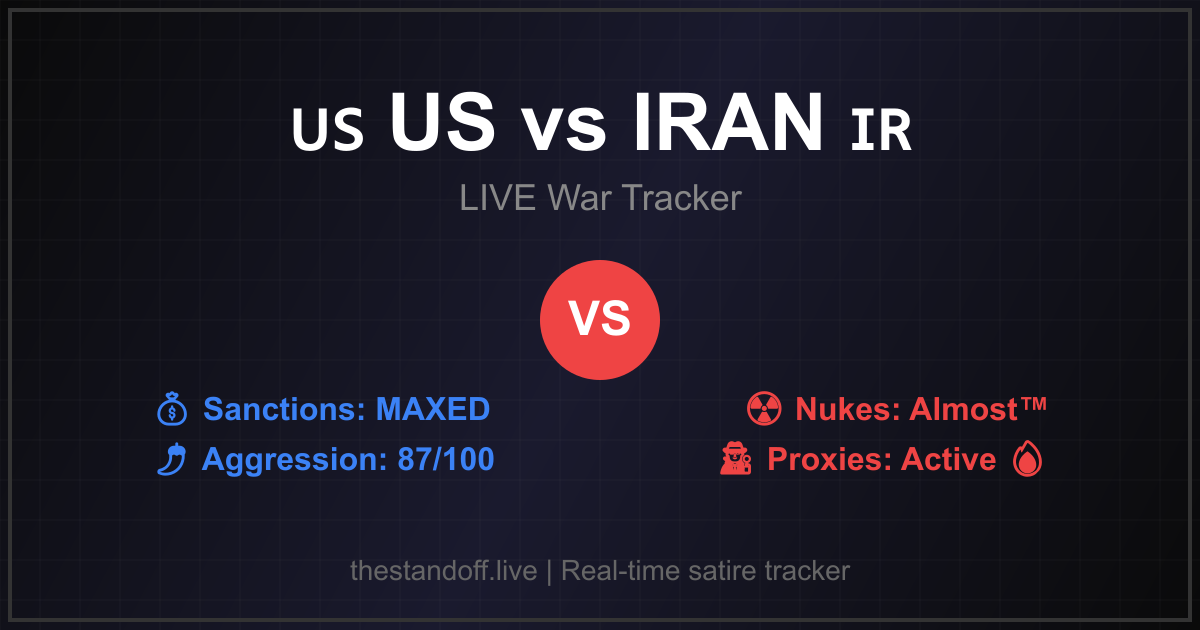
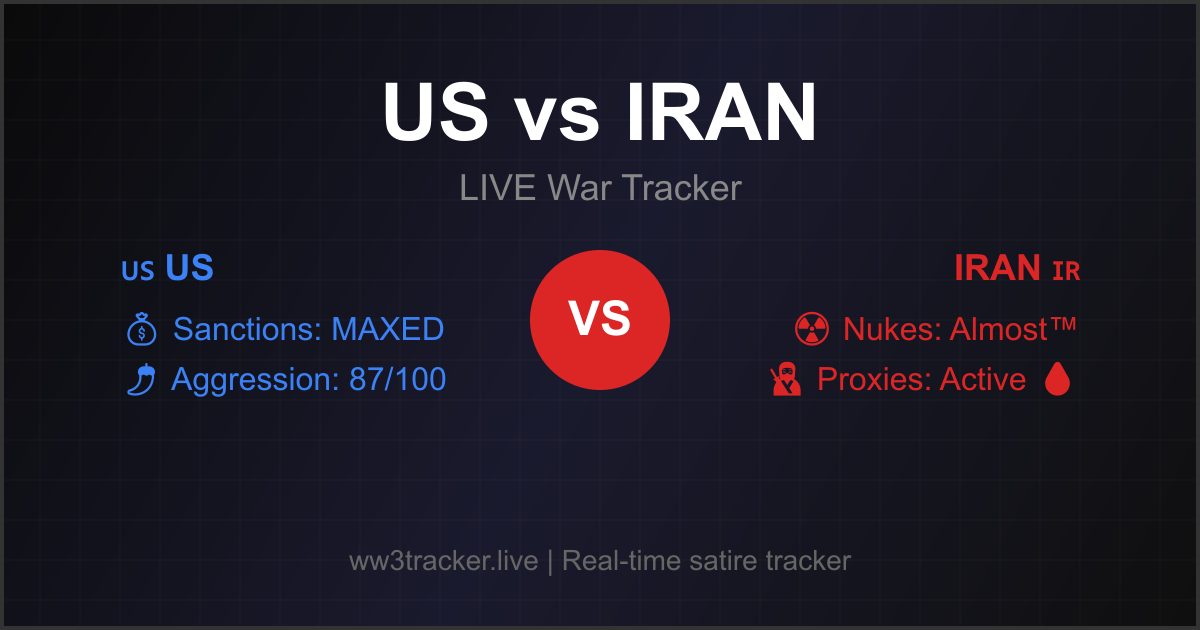
Fix: Replace all thestandoff.live with ww3tracker.live - Fix OG image, share links, Polymarket referrals

diff --git a/src/components/PolymarketWidget.jsx b/src/components/PolymarketWidget.jsx
@@ -11,7 +11,7 @@ const DEFAULT_POLYMARKET_DATA = {
       probability: 18,
       volume: 2847200,
       endDate: '2026-06-30T23:59:59Z',
-      url: 'https://polymarket.com/event/will-the-iranian-regime-fall-by-june-30?r=thestandoff',
+      url: 'https://polymarket.com/event/will-the-iranian-regime-fall-by-june-30?r=ww3tracker',
       isReal: true,
       source: 'polymarket'
     },
@@ -21,7 +21,7 @@ const DEFAULT_POLYMARKET_DATA = {
       probability: 12,
       volume: 5156700,
       endDate: '2026-03-31T23:59:59Z',
-      url: 'https://polymarket.com/event/will-the-us-invade-iran-by-march-31?r=thestandoff',
+      url: 'https://polymarket.com/event/will-the-us-invade-iran-by-march-31?r=ww3tracker',
       isReal: true,
       source: 'polymarket'
     },
@@ -31,7 +31,7 @@ const DEFAULT_POLYMARKET_DATA = {
       probability: 35,
       volume: 2218900,
       endDate: '2026-06-30T23:59:59Z',
-      url: 'https://polymarket.com/event/will-israel-declare-war-on-iran-before-july-989?r=thestandoff',
+      url: 'https://polymarket.com/event/will-israel-declare-war-on-iran-before-july-989?r=ww3tracker',
       isReal: true,
       source: 'polymarket'
     },
@@ -41,7 +41,7 @@ const DEFAULT_POLYMARKET_DATA = {
       probability: 52,
       volume: 2100000,
       endDate: '2026-06-30T23:59:59Z',
-      url: 'https://polymarket.com/event/usisrael-strikes-iran-on?r=thestandoff',
+      url: 'https://polymarket.com/event/usisrael-strikes-iran-on?r=ww3tracker',
       isReal: true,
       source: 'polymarket'
     }
@@ -114,13 +114,13 @@ const MarketCard = ({ market, cloutMode, userPoints, onPredict, hasPredicted }) 
   const noPercent = 100 - yesPercent;
 
   const shareToX = () => {
-    const text = `I just bet ${hasPredicted?.prediction?.toUpperCase() || 'YES'} on "${market.question.substring(0, 50)}..."\nMarkets say ${yesPercent}% — thestandoff.live\n#Polymarket #USvsIran #WW3`;
+    const text = `I just bet ${hasPredicted?.prediction?.toUpperCase() || 'YES'} on "${market.question.substring(0, 50)}..."\nMarkets say ${yesPercent}% — ww3tracker.live\n#Polymarket #USvsIran #WW3`;
     window.open('https://twitter.com/intent/tweet?text=' + encodeURIComponent(text), '_blank');
   };
 
   const copyLink = async () => {
     try {
-      await navigator.clipboard.writeText(`https://thestandoff.live — ${market.question}`);
+      await navigator.clipboard.writeText(`https://ww3tracker.live — ${market.question}`);
       setCopied(true);
       setTimeout(() => setCopied(false), 2000);
     } catch (err) {
@@ -132,7 +132,7 @@ const MarketCard = ({ market, cloutMode, userPoints, onPredict, hasPredicted }) 
     if (market?.url) {
       window.open(market.url, '_blank');
     } else {
-      window.open('https://polymarket.com?r=thestandoff', '_blank');
+      window.open('https://polymarket.com?r=ww3tracker', '_blank');
     }
   };
 

diff --git a/scripts/generate-og-image.js b/scripts/generate-og-image.js
@@ -1,0 +1,94 @@
+import { createCanvas, registerFont } from 'canvas';
+import fs from 'fs';
+import path from 'path';
+import { fileURLToPath } from 'url';
+
+const __dirname = path.dirname(fileURLToPath(import.meta.url));
+
+// Create canvas (1200x630 for OG image)
+const canvas = createCanvas(1200, 630);
+const ctx = canvas.getContext('2d');
+
+// Background gradient
+const gradient = ctx.createLinearGradient(0, 0, 1200, 630);
+gradient.addColorStop(0, '#0a0a0a');
+gradient.addColorStop(0.5, '#1a1a2e');
+gradient.addColorStop(1, '#0f0f0f');
+ctx.fillStyle = gradient;
+ctx.fillRect(0, 0, 1200, 630);
+
+// Add subtle grid pattern
+ctx.strokeStyle = 'rgba(255, 255, 255, 0.03)';
+ctx.lineWidth = 1;
+for (let i = 0; i < 1200; i += 40) {
+  ctx.beginPath();
+  ctx.moveTo(i, 0);
+  ctx.lineTo(i, 630);
+  ctx.stroke();
+}
+for (let i = 0; i < 630; i += 40) {
+  ctx.beginPath();
+  ctx.moveTo(0, i);
+  ctx.lineTo(1200, i);
+  ctx.stroke();
+}
+
+// Title - "US vs IRAN"
+ctx.textAlign = 'center';
+ctx.fillStyle = '#ffffff';
+ctx.font = 'bold 80px Arial';
+ctx.fillText('US vs IRAN', 600, 140);
+
+// Subtitle
+ctx.font = '36px Arial';
+ctx.fillStyle = '#888888';
+ctx.fillText('LIVE War Tracker', 600, 200);
+
+// VS Circle
+ctx.beginPath();
+ctx.arc(600, 320, 70, 0, Math.PI * 2);
+ctx.fillStyle = '#dc2626';
+ctx.fill();
+ctx.fillStyle = '#ffffff';
+ctx.font = 'bold 48px Arial';
+ctx.fillText('VS', 600, 335);
+
+// US Side (Left)
+ctx.textAlign = 'left';
+ctx.fillStyle = '#3b82f6'; // Blue
+ctx.font = 'bold 36px Arial';
+ctx.fillText('🇺🇸 US', 120, 280);
+
+ctx.font = '32px Arial';
+ctx.fillText('💰 Sanctions: MAXED', 120, 340);
+ctx.fillText('🌶 Aggression: 87/100', 120, 390);
+
+// Iran Side (Right)
+ctx.textAlign = 'right';
+ctx.fillStyle = '#dc2626'; // Red
+ctx.font = 'bold 36px Arial';
+ctx.fillText('IRAN 🇮🇷', 1080, 280);
+
+ctx.font = '32px Arial';
+ctx.fillText('☢ Nukes: Almost™', 1080, 340);
+ctx.fillText('🥷 Proxies: Active 🩸', 1080, 390);
+
+// Bottom - URL (THIS IS THE FIXED PART!)
+ctx.textAlign = 'center';
+ctx.fillStyle = '#666666';
+ctx.font = '28px Arial';
+ctx.fillText('ww3tracker.live | Real-time satire tracker', 600, 570);
+
+// Border
+ctx.strokeStyle = '#333333';
+ctx.lineWidth = 4;
+ctx.strokeRect(2, 2, 1196, 626);
+
+// Save
+const buffer = canvas.toBuffer('image/png');
+const outputPath = path.join(__dirname, '..', 'public', 'og-image.png');
+fs.writeFileSync(outputPath, buffer);
+
+console.log('✅ OG Image generated successfully!');
+console.log('📁 Saved to:', outputPath);
+console.log('🔗 Domain updated to: ww3tracker.live');

diff --git a/src/components/MemeCard.jsx b/src/components/MemeCard.jsx
@@ -58,9 +58,9 @@ const ShareButtons = ({ meme, cardRef, isWW3 = false, ww3Data = null }) => {
 
   const getShareText = () => {
     if (meme?.analysis?.memeCaption) {
-      return `${meme.analysis.badge} ${meme.analysis.memeCaption}\n☢ WW3 tracker is LIVE\nthestandoff.live #WW3 #USvsIran #TheStandoff`;
+      return `${meme.analysis.badge} ${meme.analysis.memeCaption}\n☢ WW3 tracker is LIVE\nww3tracker.live #WW3 #USvsIran #TheStandoff`;
     }
-    return `☢ WW3: ${ww3Data?.probability || 50}% likely right now thestandoff.live #WW3 #TheStandoff`;
+    return `☢ WW3: ${ww3Data?.probability || 50}% likely right now ww3tracker.live #WW3 #TheStandoff`;
   };
 
   const shareToX = () => {
@@ -69,14 +69,14 @@ const ShareButtons = ({ meme, cardRef, isWW3 = false, ww3Data = null }) => {
 
   const shareToReddit = () => {
     const title = meme?.analysis?.memeCaption 
-      ? `${meme.analysis.memeCaption} [thestandoff.live]`
+      ? `${meme.analysis.memeCaption} [ww3tracker.live]`
       : `WW3 Probability: ${ww3Data?.probability || 50}% - Live Tracker`;
-    window.open(`https://reddit.com/submit?url=${encodeURIComponent('https://thestandoff.live')}&title=${encodeURIComponent(title)}`, '_blank');
+    window.open(`https://reddit.com/submit?url=${encodeURIComponent('https://ww3tracker.live')}&title=${encodeURIComponent(title)}`, '_blank');
   };
 
   const copyLink = async () => {
     try {
-      await navigator.clipboard.writeText('https://thestandoff.live');
+      await navigator.clipboard.writeText('https://ww3tracker.live');
       setCopied(true);
       setTimeout(() => setCopied(false), 2000);
     } catch (err) {
@@ -100,7 +100,7 @@ const ShareButtons = ({ meme, cardRef, isWW3 = false, ww3Data = null }) => {
       ctx.font = 'bold 14px Arial';
       ctx.fillStyle = 'rgba(255, 255, 255, 0.6)';
       ctx.textAlign = 'right';
-      ctx.fillText('thestandoff.live', canvas.width - 10, canvas.height - 10);
+      ctx.fillText('ww3tracker.live', canvas.width - 10, canvas.height - 10);
 
       // For WW3 counter, add dramatic overlay
       if (isWW3 && ww3Data) {
@@ -113,7 +113,7 @@ const ShareButtons = ({ meme, cardRef, isWW3 = false, ww3Data = null }) => {
         ctx.fillText('right now', canvas.width / 2, canvas.height / 2 + 30);
         ctx.font = 'bold 14px Arial';
         ctx.fillStyle = 'rgba(255, 255, 255, 0.6)';
-        ctx.fillText('thestandoff.live', canvas.width / 2, canvas.height / 2 + 55);
+        ctx.fillText('ww3tracker.live', canvas.width / 2, canvas.height / 2 + 55);
       }
 
       const link = document.createElement('a');

diff --git a/index.html b/index.html
@@ -16,25 +16,28 @@
     <link rel="apple-touch-icon" href="/apple-touch-icon.svg" />
     <link rel="shortcut icon" href="/favicon.svg" />
     <meta name="viewport" content="width=device-width, initial-scale=1.0" />
+    <meta http-equiv="Cache-Control" content="no-cache, no-store, must-revalidate" />
+    <meta http-equiv="Pragma" content="no-cache" />
+    <meta http-equiv="Expires" content="0" />
     <title>WW3 Tracker - Live Conflict Monitor</title>
     <meta name="description" content="Real-time satire tracker for the US vs Iran conflict. Live stats, betting odds, market data, and breaking news. Who's winning? 💰 Sanctions vs ☢ Nukes" />
     <link rel="canonical" href="https://ww3tracker.live/" />
     
     <!-- Open Graph / Twitter Card Meta Tags -->
     <meta property="og:type" content="website" />
-    <meta property="og:url" content="https://ww3tracker.live?v=2" />
+    <meta property="og:url" content="https://ww3tracker.live?t=20260303" />
     <meta property="og:title" content="WW3 Tracker - Live Conflict Monitor" />
     <meta property="og:description" content="Real-time satire tracker for the US vs Iran conflict. Live stats, betting odds, market data, and breaking news. Who's winning? 💰 Sanctions vs ☢ Nukes" />
-    <meta property="og:image" content="https://ww3tracker.live/og-image.png?v=2" />
+    <meta property="og:image" content="https://ww3tracker.live/og-image.png?t=20260303" />
     <meta property="og:image:width" content="1200" />
     <meta property="og:image:height" content="630" />
     
     <!-- Twitter Card -->
     <meta name="twitter:card" content="summary_large_image" />
-    <meta name="twitter:url" content="https://ww3tracker.live?v=2" />
+    <meta name="twitter:url" content="https://ww3tracker.live?t=20260303" />
     <meta name="twitter:title" content="WW3 Tracker - Live Conflict Monitor" />
     <meta name="twitter:description" content="Real-time satire tracker for the US vs Iran conflict. Live stats, betting odds, market data, and breaking news. Who's winning? 💰 Sanctions vs ☢ Nukes" />
-    <meta name="twitter:image" content="https://ww3tracker.live/og-image.png?v=2" />
+    <meta name="twitter:image" content="https://ww3tracker.live/og-image.png?t=20260303" />
     
     <link rel="preconnect" href="https://fonts.googleapis.com">
     <link rel="preconnect" href="https://fonts.gstatic.com" crossorigin>

diff --git a/server/services/polymarketService.js b/server/services/polymarketService.js
@@ -27,7 +27,7 @@ const HARDCODED_IRAN_MARKETS = [
     probability: 18,
     volume: 2847200,
     endDate: '2026-06-30T23:59:59Z',
-    url: 'https://polymarket.com/event/will-the-iranian-regime-fall-by-june-30?r=thestandoff',
+    url: 'https://polymarket.com/event/will-the-iranian-regime-fall-by-june-30?r=ww3tracker',
     isReal: true,
     source: 'polymarket'
   },
@@ -37,7 +37,7 @@ const HARDCODED_IRAN_MARKETS = [
     probability: 12,
     volume: 5156700,
     endDate: '2026-03-31T23:59:59Z',
-    url: 'https://polymarket.com/event/will-the-us-invade-iran-by-march-31?r=thestandoff',
+    url: 'https://polymarket.com/event/will-the-us-invade-iran-by-march-31?r=ww3tracker',
     isReal: true,
     source: 'polymarket'
   },
@@ -47,7 +47,7 @@ const HARDCODED_IRAN_MARKETS = [
     probability: 35,
     volume: 2218900,
     endDate: '2026-06-30T23:59:59Z',
-    url: 'https://polymarket.com/event/will-israel-declare-war-on-iran-before-july-989?r=thestandoff',
+    url: 'https://polymarket.com/event/will-israel-declare-war-on-iran-before-july-989?r=ww3tracker',
     isReal: true,
     source: 'polymarket'
   },
@@ -57,7 +57,7 @@ const HARDCODED_IRAN_MARKETS = [
     probability: 52,
     volume: 2100000,
     endDate: '2026-06-30T23:59:59Z',
-    url: 'https://polymarket.com/event/usisrael-strikes-iran-on?r=thestandoff',
+    url: 'https://polymarket.com/event/usisrael-strikes-iran-on?r=ww3tracker',
     isReal: true,
     source: 'polymarket'
   },
@@ -67,7 +67,7 @@ const HARDCODED_IRAN_MARKETS = [
     probability: 8,
     volume: 1521000,
     endDate: '2026-03-31T23:59:59Z',
-    url: 'https://polymarket.com/event/trump-announces-military-action-against-iran-durring-sotu?r=thestandoff',
+    url: 'https://polymarket.com/event/trump-announces-military-action-against-iran-durring-sotu?r=ww3tracker',
     isReal: true,
     source: 'polymarket'
   }

diff --git a/src/components/WW3Counter.jsx b/src/components/WW3Counter.jsx
@@ -63,7 +63,7 @@ const WW3Counter = ({ tension = 65 }) => {
     return () => clearInterval(interval);
   }, []);
 
-  const shareText = `☢ WW3 is ${ww3Probability}% likely right now\nBased on live Polymarket + news data 😭\nthestandoff.live #WW3 #TheStandoff`;
+  const shareText = `☢ WW3 is ${ww3Probability}% likely right now\nBased on live Polymarket + news data 😭\nww3tracker.live #WW3 #TheStandoff`;
 
   const shareToX = () => {
     window.open('https://twitter.com/intent/tweet?text=' + encodeURIComponent(shareText), '_blank');
@@ -71,7 +71,7 @@ const WW3Counter = ({ tension = 65 }) => {
 
   const copyLink = async () => {
     try {
-      await navigator.clipboard.writeText('https://thestandoff.live');
+      await navigator.clipboard.writeText('https://ww3tracker.live');
       setCopied(true);
       setTimeout(() => setCopied(false), 2000);
     } catch (err) {
@@ -281,7 +281,7 @@ const WW3Counter = ({ tension = 65 }) => {
               {isReal ? ' • Live data' : ' • Estimated'}
             </p>
             <p className="text-[9px] sm:text-[10px] text-gray-600 font-body hidden sm:block">
-              thestandoff.live
+              ww3tracker.live
             </p>
           </div>
         </div>

diff --git a/src/components/SpicyMeter.jsx b/src/components/SpicyMeter.jsx
@@ -71,14 +71,14 @@ const SpicyMeter = ({ tension = 65, usHP = 75, iranHP = 60 }) => {
     const gold = stocks.find(s => s.label === 'SAFE.HAVEN');
     const defense = stocks.find(s => s.label === 'WAR.STOCKS');
     
-    const text = `📉 LIVE WAR MARKET UPDATE:\n🛢 Oil: ${oil?.change || 'N/A'}\n🥇 Gold: ${gold?.change || 'N/A'}\n🚀 Defense stocks: ${defense?.change || 'N/A'}\n💸 Iran Rial: SUFFERING\nMarkets know something 👀\nthestandoff.live #WW3 #USvsIran`;
+    const text = `📉 LIVE WAR MARKET UPDATE:\n🛢 Oil: ${oil?.change || 'N/A'}\n🥇 Gold: ${gold?.change || 'N/A'}\n🚀 Defense stocks: ${defense?.change || 'N/A'}\n💸 Iran Rial: SUFFERING\nMarkets know something 👀\nww3tracker.live #WW3 #USvsIran`;
     
     window.open('https://twitter.com/intent/tweet?text=' + encodeURIComponent(text), '_blank');
   };
 
   const copyLink = async () => {
     try {
-      await navigator.clipboard.writeText('https://thestandoff.live');
+      await navigator.clipboard.writeText('https://ww3tracker.live');
       setCopied(true);
       setTimeout(() => setCopied(false), 2000);
     } catch (err) {

diff --git a/src/components/FighterCard.jsx b/src/components/FighterCard.jsx
@@ -7,7 +7,7 @@ const TRUMP_GIF_URL = 'https://media.giphy.com/media/v1.Y2lkPTc5MGI3NjExaXJvdm5m
 const IRAN_GIF_URL = 'https://media4.giphy.com/media/v1.Y2lkPTc5MGI3NjExZ3Q1eGJhODQyNzdqdGs3NDByb3FzNjNpOWt1cHdjYTg3NmtieGh0MCZlcD12MV9pbnRlcm5hbF9naWZfYnlfaWQmY3Q9Zw/KdxduNi5eiR7f6DI68/giphy.gif';
 
 // Website URL - change this to your actual domain when deployed
-const SITE_URL = 'https://thestandoff.live';
+const SITE_URL = 'https://ww3tracker.live';
 
 const FighterCard = ({ 
   side = 'us', 
